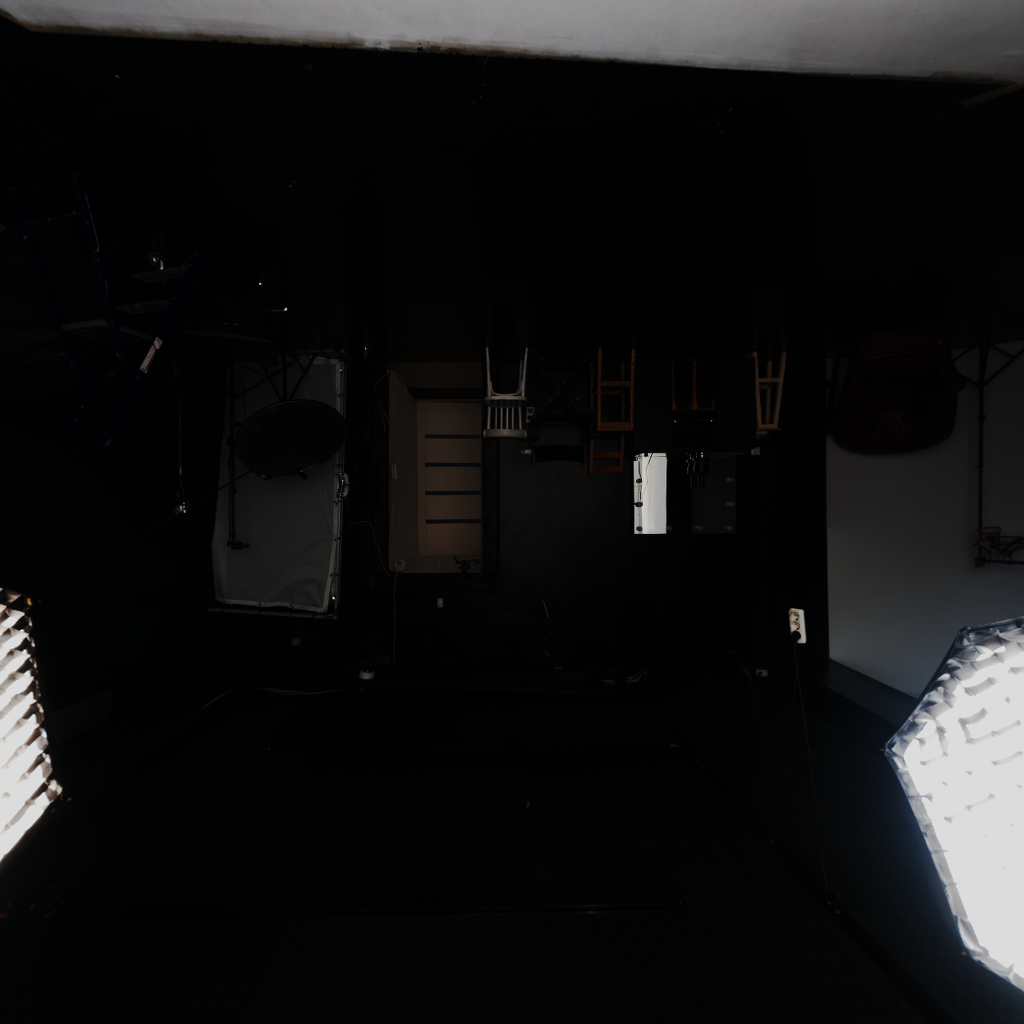
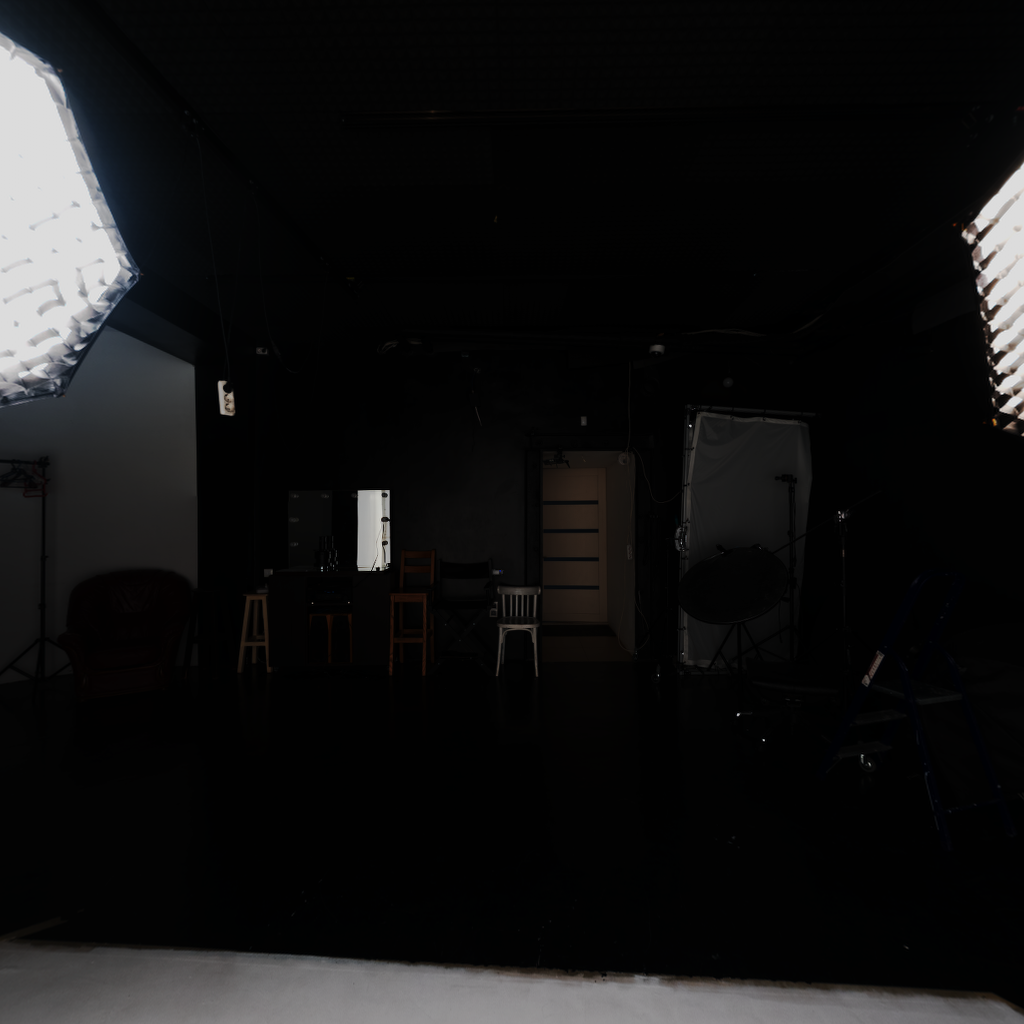
Light Testing and Frustum Culling. Sky Box Fixed

diff --git a/src/controller/app.cpp b/src/controller/app.cpp
@@ -1,11 +1,11 @@
 #include "app.h"
 
 #pragma region Default Camera Values
-int SCREEN_WIDTH = 1920;
+int SCREEN_WIDTH = 1080;
 int SCREEN_HEIGHT = 1080;
 float NEARCLIP = 0.1f;
 float FARCLIP = 1000.0f;
-float FOV = 45.0f;
+float FOV = 70.0f;
 #pragma endregion
 
 App::App() 
@@ -81,20 +81,21 @@ void App::Run()
 
     unsigned int cameraEntity;
     cameraComponent = new CameraComponent();
-    *cameraComponent = scene->MakeCamera({ 0.0f, 1.0f, 0.0f }, FOV, (float)SCREEN_WIDTH / (float)SCREEN_HEIGHT, NEARCLIP, FARCLIP, cameraEntity);
+    *cameraComponent = scene->MakeCamera({ 0.0f, 0.0f, 0.0f }, FOV, (float)SCREEN_WIDTH / (float)SCREEN_HEIGHT, NEARCLIP, FARCLIP, cameraEntity);
     cameraID = cameraEntity;
     renderSystem->SetCameraID(cameraID);
-
     Start();
 
+    std::unordered_map<unsigned int, TransformComponent>* transforms = scene->GetTransforms();
+    std::unordered_map<unsigned int, RenderComponent>* renders = scene->GetRenders();
+    std::unordered_map<unsigned int, LightComponent>* lights = scene->GetLights();
+    std::unordered_map<unsigned int, PhysicsComponent>* bodies = scene->GetPhysics();
+
+    cameraSystem->UpdateFrustum((*transforms)[cameraID], *cameraComponent);
+    falseFrustum = cameraComponent->frustum; 
 
     while (!glfwWindowShouldClose(window) && !shouldClose) 
     {
-        std::unordered_map<unsigned int, TransformComponent>* transforms = scene->GetTransforms();
-        std::unordered_map<unsigned int, RenderComponent>* renders = scene->GetRenders();
-        std::unordered_map<unsigned int, LightComponent>* lights = scene->GetLights();
-        std::unordered_map<unsigned int, PhysicsComponent>* bodies = scene->GetPhysics();
-
         inputSystem->Update();
 
         scene->HierarchyUpdate();
@@ -102,7 +103,10 @@ void App::Run()
         // TODO: Add Delta Time
         shouldClose = cameraSystem->Update(*transforms, cameraID, *cameraComponent, scene, viewMatrix, 1.0f / 60.0f);
 
-        renderSystem->Update(*transforms, *renders, *lights, projectionMatrix, viewMatrix);
+        //std::unordered_map<unsigned int, RenderComponent> culledRenders = cameraSystem->CheckOnFrustum(cameraComponent->frustum, *renders, *transforms);
+        std::unordered_map<unsigned int, RenderComponent> culledRenders = cameraSystem->CheckOnFrustum(falseFrustum, *renders, *transforms);
+
+        renderSystem->Update(*transforms, culledRenders, *lights, projectionMatrix, viewMatrix);
 
         // TODO: Moved to Fixed Update
         physicsSystem->CollisionPhase(*bodies, *transforms);
@@ -146,10 +150,10 @@ void App::Start()
     std::string skyboxTextureFiles[6] = {
     "img/px.png",
     "img/nx.png",
-    "img/nz.png",
-    "img/pz.png",
     "img/py.png",
     "img/ny.png",
+    "img/pz.png",
+    "img/nz.png",
     };
 
     //std::string skyboxTextureFiles[6] = {
@@ -165,43 +169,48 @@ void App::Start()
 
     unsigned int cubeEntity = scene->MakeEmptyTransform();
     scene->AddRenderComponent(cubeEntity);
+
+    //Gun
     scene->SetMesh(cubeEntity, assetFactory->GetMesh("models/Cerberus_LP.FBX"));
     std::string textureMaps[3] = { "img/Cerberus_A.tga", "img/Cerberus_PBR.tga", "img/Cerberus_N.tga" };
     scene->SetScale(2, { 0.15f, 0.15f, 0.15f });
+
+    //Whale
+    //scene->SetMesh(cubeEntity, assetFactory->GetMesh("models/whale.obj"));
+    //std::string textureMaps[3] = { "img/whale.jpg", "img/Cerberus_PBR.tga", "img/Cerberus_N.tga" };
+    scene->SetLocalEulers(2, {-90,0,0}, false);
+    //scene->SetScale(2, { 0.05, 0.05, 0.05 });
+
     scene->AddPhysicsComponent(2, 0);
     scene->SetIsGravitated(2, false);
     scene->AddPhysicsShapePill(2, { 0,21,7.5f }, { 0,-109,7.5f }, 1.7f);
     scene->AddPhysicsShapePill(2, { 4.25f,21,1 }, { 4.25f,-109,1 }, 1.7f);
     scene->AddPhysicsShapePill(2, { -4.25f,21,1 }, { -4.25f,-109,1 }, 1.7f);
 
-    //renderComponents[cubeEntity]->mesh = assetFactory->GetMesh("models/whale.obj");
-    //std::string textureMaps[3] = { "img/whale.jpg", "img/Cerberus_PBR.tga", "img/Cerberus_N.tga" };
-    //transformComponents[2]->scale = { 0.05, 0.05, 0.05 };
-
     scene->SetMaterial(cubeEntity, assetFactory->GetMaterial(textureMaps, 7));
 
-    int lightCount = 10;
+    int lightCount = 150;
 
-    srand(1337);
+    srand(69420);
     //srand(212);
-    for (int i = 3; i < lightCount; i++)
+    for (int i = 3; i < lightCount + 3; i++)
     {
-        float z = (20.0f * (float)rand() / RAND_MAX - 10.0f);
-        float y = (110.0f * (float)rand() / RAND_MAX - 90.0f);
-        float x = (9.0f * (float)rand() / RAND_MAX + 30.0f);
+        float z = (30.0f * (float)rand() / RAND_MAX - 15.0F);
+        float y = (30.0f * (float)rand() / RAND_MAX - 15.0F);
+        float x = (30.0F * (float)rand() / RAND_MAX - 15.0F);
 
         float b = (255 * (float)rand() / RAND_MAX);
         float g = (255 * (float)rand() / RAND_MAX);
         float r = (255 * (float)rand() / RAND_MAX);
 
         scene->MakePointLightEntity({z, y, x }, 100, { r,g,b }, 1 / (float)255);
-        scene->AddPhysicsComponent(i, 1);
-        scene->AddPhysicsShapeBox(i);
-        scene->SetIsGravitated(i, true);
-        scene->SetMomentOfInertiaScale(i, { 0.01f,0.01f,0.01f });
+        //scene->AddPhysicsComponent(i, 1);
+        //scene->AddPhysicsShapeBox(i);
+        //scene->SetIsGravitated(i, true);
+        //scene->SetMomentOfInertiaScale(i, { 0.01f,0.01f,0.01f });
     }
 }
-
+ 
 void App::Update()
 {
     //Space to add things to run on update
@@ -215,6 +224,10 @@ void App::Update()
     if (inputSystem->GetKeyDown(G))
     {
         physicsSystem->gravity = { 0,0,-5.0f };
+    }
+    if (inputSystem->GetKeyDown(V))
+    {
+        falseFrustum = cameraComponent->frustum;
     }
 }
 

diff --git a/src/systems/CameraSystem.cpp b/src/systems/CameraSystem.cpp
@@ -70,6 +70,34 @@ bool CameraSystem::Update(std::unordered_map<unsigned int, TransformComponent>& 
     return false;
 }
 
+std::unordered_map<unsigned int, RenderComponent> CameraSystem::CheckOnFrustum(Frustum frustum, std::unordered_map<unsigned int, RenderComponent>& renderComponents, std::unordered_map<unsigned int, TransformComponent>& transformComponents)
+{
+    std::unordered_map<unsigned int, RenderComponent> culledComponents = std::unordered_map<unsigned int, RenderComponent>();
+
+    for (std::pair<unsigned int, RenderComponent> entity : renderComponents)
+    {
+        glm::mat4 model = transformComponents[entity.first].globalTransform;
+        glm::vec3 min = entity.second.mesh->bottomCorner;
+        glm::vec3 max = entity.second.mesh->topCorner;
+
+        glm::vec3 OOBB[8] =
+        {
+            model * glm::vec4(min, 1),
+            model * glm::vec4(min.x, min.y, max.z, 1),
+            model * glm::vec4(min.x, max.y, min.z, 1),
+            model * glm::vec4(min.x, max.y, max.z, 1),
+            model * glm::vec4(max.x, min.y, min.z, 1),
+            model * glm::vec4(max.x, min.y, max.z, 1),
+            model * glm::vec4(max.x, max.y, min.z, 1),
+            model * glm::vec4(max, 1),
+        };
+
+        if (IsOnFrustum(frustum, OOBB)) culledComponents[entity.first] = entity.second;
+    }
+
+    return culledComponents;
+}
+
  void CameraSystem::UpdateFrustum(TransformComponent& cameraTransform, CameraComponent& cameraComponent)
 {
 
@@ -86,25 +114,52 @@ bool CameraSystem::Update(std::unordered_map<unsigned int, TransformComponent>& 
      float nearClip = cameraComponent.nearClip;
      float farClip = cameraComponent.farClip;
 
-     const float halfVSide = nearClip * tanf(fov * .5f);
+     const float halfVSide = farClip * tanf(fov/2.0f);
      const float halfHSide = halfVSide * aspect;
      const glm::vec3 frontMultFar = farClip * cameraComponent.forward;
 
+     glm::vec3 rightNormal = glm::normalize(glm::cross(frontMultFar - cameraComponent.right * halfHSide, cameraComponent.up));
+     glm::vec3 leftNormal = glm::normalize(glm::cross(cameraComponent.up, frontMultFar + cameraComponent.right * halfHSide));
+     glm::vec3 topNormal = glm::normalize(glm::cross(cameraComponent.right, frontMultFar - cameraComponent.up * halfVSide));
+     glm::vec3 bottomNormal = glm::normalize(glm::cross(frontMultFar + cameraComponent.up * halfVSide, cameraComponent.right));
 
-     frustum.nearFace = { pos + nearClip * cameraComponent.forward, 
-         glm::dot(pos + nearClip * cameraComponent.forward,cameraComponent.forward) };
-     frustum.farFace = { pos + frontMultFar, glm::dot(pos + frontMultFar, -cameraComponent.forward) };
-     frustum.rightFace = { pos,
-                glm::dot(pos, glm::cross(frontMultFar - cameraComponent.right * halfHSide, cameraComponent.up)) };
-     frustum.leftFace = { pos,
-                glm::dot(pos, glm::cross(cameraComponent.up,frontMultFar + cameraComponent.right * halfHSide)) };
-     frustum.topFace = { pos,
-                glm::dot(pos, glm::cross(cameraComponent.right, frontMultFar - cameraComponent.up * halfVSide)) };
-     frustum.bottomFace = { pos,
-                glm::dot(pos, glm::cross(frontMultFar + cameraComponent.up * halfVSide, cameraComponent.right)) };
+     frustum.nearFace = { cameraComponent.forward, glm::dot(pos + nearClip * cameraComponent.forward ,cameraComponent.forward)};
+     frustum.farFace = { -cameraComponent.forward, glm::dot(pos + frontMultFar, -cameraComponent.forward) };
+     frustum.rightFace = { rightNormal, glm::dot(pos, rightNormal) };
+     frustum.leftFace = { leftNormal, glm::dot(pos, leftNormal) };
+     frustum.topFace = { topNormal, glm::dot(pos, topNormal) };
+     frustum.bottomFace = { bottomNormal, glm::dot(pos, bottomNormal) };
 
      cameraComponent.frustum = frustum;
 }
+
+ bool CameraSystem::IsOnFrustum(Frustum frustum, glm::vec3 OOBB[8])
+ {
+     if (!IsInfrontOfPlane(frustum.leftFace, OOBB)) return false;
+     if (!IsInfrontOfPlane(frustum.rightFace, OOBB)) return false;
+     if (!IsInfrontOfPlane(frustum.topFace, OOBB)) return false;
+     if (!IsInfrontOfPlane(frustum.bottomFace, OOBB)) return false;
+     if (!IsInfrontOfPlane(frustum.farFace, OOBB)) return false;
+     if (!IsInfrontOfPlane(frustum.nearFace, OOBB)) return false;
+     return true;
+ }
+
+ bool CameraSystem::IsInfrontOfPlane(Plane plane, glm::vec3 OOBB[8])
+ {
+    /*
+    *  for all verts
+    *    compare with  face
+    *        if closer than face return true;
+    *  return false
+    */
+
+     for (int i = 0; i < 8; i++)
+     {
+         float distance = glm::dot(plane.normal, OOBB[i]);
+         if (distance - plane.distance >= 0) return true;
+     }
+     return false;
+ }
 
 void CameraSystem::RotateCamera()
 {

diff --git a/src/systems/CameraSystem.h b/src/systems/CameraSystem.h
@@ -32,8 +32,27 @@ public:
         SceneManager* scene,
         glm::mat4& _view, float dt);
 
-private:
+    /// <summary>
+    /// Update Camera Frustum
+    /// </summary>
+    /// <param name="cameraTransform"> transform component for camera</param>
+    /// <param name="cameraComponent"> camera component for camera</param>
     void UpdateFrustum(TransformComponent& cameraTransform, CameraComponent& cameraComponent);
+
+    /// <summary>
+    /// Culls render components before sending to gpu.
+    /// </summary>
+    /// <param name="frustum"> frustum of camera</param>
+    /// <param name="renderComponents"> all render components to be culled</param>
+    /// <returns> render components in camera frustum</returns>
+    std::unordered_map<unsigned int, RenderComponent> CheckOnFrustum(Frustum frustum, 
+        std::unordered_map<unsigned int, RenderComponent>& renderComponents, std::unordered_map<unsigned int, TransformComponent>& transformComponents);
+
+private:
+
+    bool IsOnFrustum(Frustum frustum, glm::vec3 OOBB[8]);
+
+    bool IsInfrontOfPlane(Plane plane, glm::vec3 OOBB[8]);
 
     /// <summary>
     /// Rotates camera

diff --git a/src/systems/RenderSystem.cpp b/src/systems/RenderSystem.cpp
@@ -254,13 +254,13 @@ void RenderSystem::HDRBufferSetUp()
     // create floating point color buffer
     glGenTextures(1, &colorBuffer);
     glBindTexture(GL_TEXTURE_2D, colorBuffer);
-    glTexImage2D(GL_TEXTURE_2D, 0, GL_RGBA16F, 1920, 1080, 0, GL_RGBA, GL_FLOAT, NULL);
+    glTexImage2D(GL_TEXTURE_2D, 0, GL_RGBA16F, SCREEN_WIDTH, SCREEN_HEIGHT, 0, GL_RGBA, GL_FLOAT, NULL);
     glTexParameteri(GL_TEXTURE_2D, GL_TEXTURE_MIN_FILTER, GL_LINEAR);
     glTexParameteri(GL_TEXTURE_2D, GL_TEXTURE_MAG_FILTER, GL_LINEAR);
     // create depth buffer (renderbuffer)
     glGenRenderbuffers(1, &rboDepth);
     glBindRenderbuffer(GL_RENDERBUFFER, rboDepth);
-    glRenderbufferStorage(GL_RENDERBUFFER, GL_DEPTH_COMPONENT, 1920, 1080);
+    glRenderbufferStorage(GL_RENDERBUFFER, GL_DEPTH_COMPONENT, SCREEN_WIDTH, SCREEN_HEIGHT);
     // attach buffers
     glBindFramebuffer(GL_FRAMEBUFFER, hdrFBO);
     glFramebufferTexture2D(GL_FRAMEBUFFER, GL_COLOR_ATTACHMENT0, GL_TEXTURE_2D, colorBuffer, 0);

diff --git a/src/factories/SceneManager.h b/src/factories/SceneManager.h
@@ -25,12 +25,16 @@ public:
 	/// <returns> unsigned int of entity</returns>
 	unsigned int MakeEntity() { return entityCount++; }
 
-	//TODO: REMAKE SUMMARY
-	/// <summary> 
-	/// Creates an entity with a transform and camera component 
+	/// <summary>
+	/// Makes a camera component
 	/// </summary>
-	/// <param name="position"> transform position </param>
-	/// <returns> unsigned int of entity</returns>
+	/// <param name="position"> position of camera</param>
+	/// <param name="_fov"> feild of view</param>
+	/// <param name="aspect"> aspect ratio</param>
+	/// <param name="_nearClip"> near clip plane</param>
+	/// <param name="_farClip"> far clip plane</param>
+	/// <param name="entityID"> entity id</param>
+	/// <returns> Camera Component</returns>
 	CameraComponent MakeCamera(glm::vec3 position, float _fov, float aspect, float _nearClip, float _farClip, unsigned int& entityID);
 
 #pragma region Transform Components

diff --git a/src/factories/SceneManager.cpp b/src/factories/SceneManager.cpp
@@ -243,7 +243,13 @@ const glm::mat4 SceneManager::GetLocalTransform(unsigned int entity)
         glm::mat4 scale = glm::scale(glm::identity<glm::mat4>(), transformComponents[entity].scale);
         glm::mat4 rotation = glm::mat4(transformComponents[entity].rotation);
         
-        return scale * translate * rotation;
+        return 
+            translate 
+            * 
+            rotation
+            * 
+            scale 
+            ;
     }
     else return { 
         NAN, NAN, NAN, NAN,

diff --git a/src/controller/app.h b/src/controller/app.h
@@ -51,4 +51,7 @@ private:
     //CameraMatricies
     glm::mat4 viewMatrix;
     glm::mat4 projectionMatrix;
+
+    //Messing Around
+    Frustum falseFrustum;
 };
